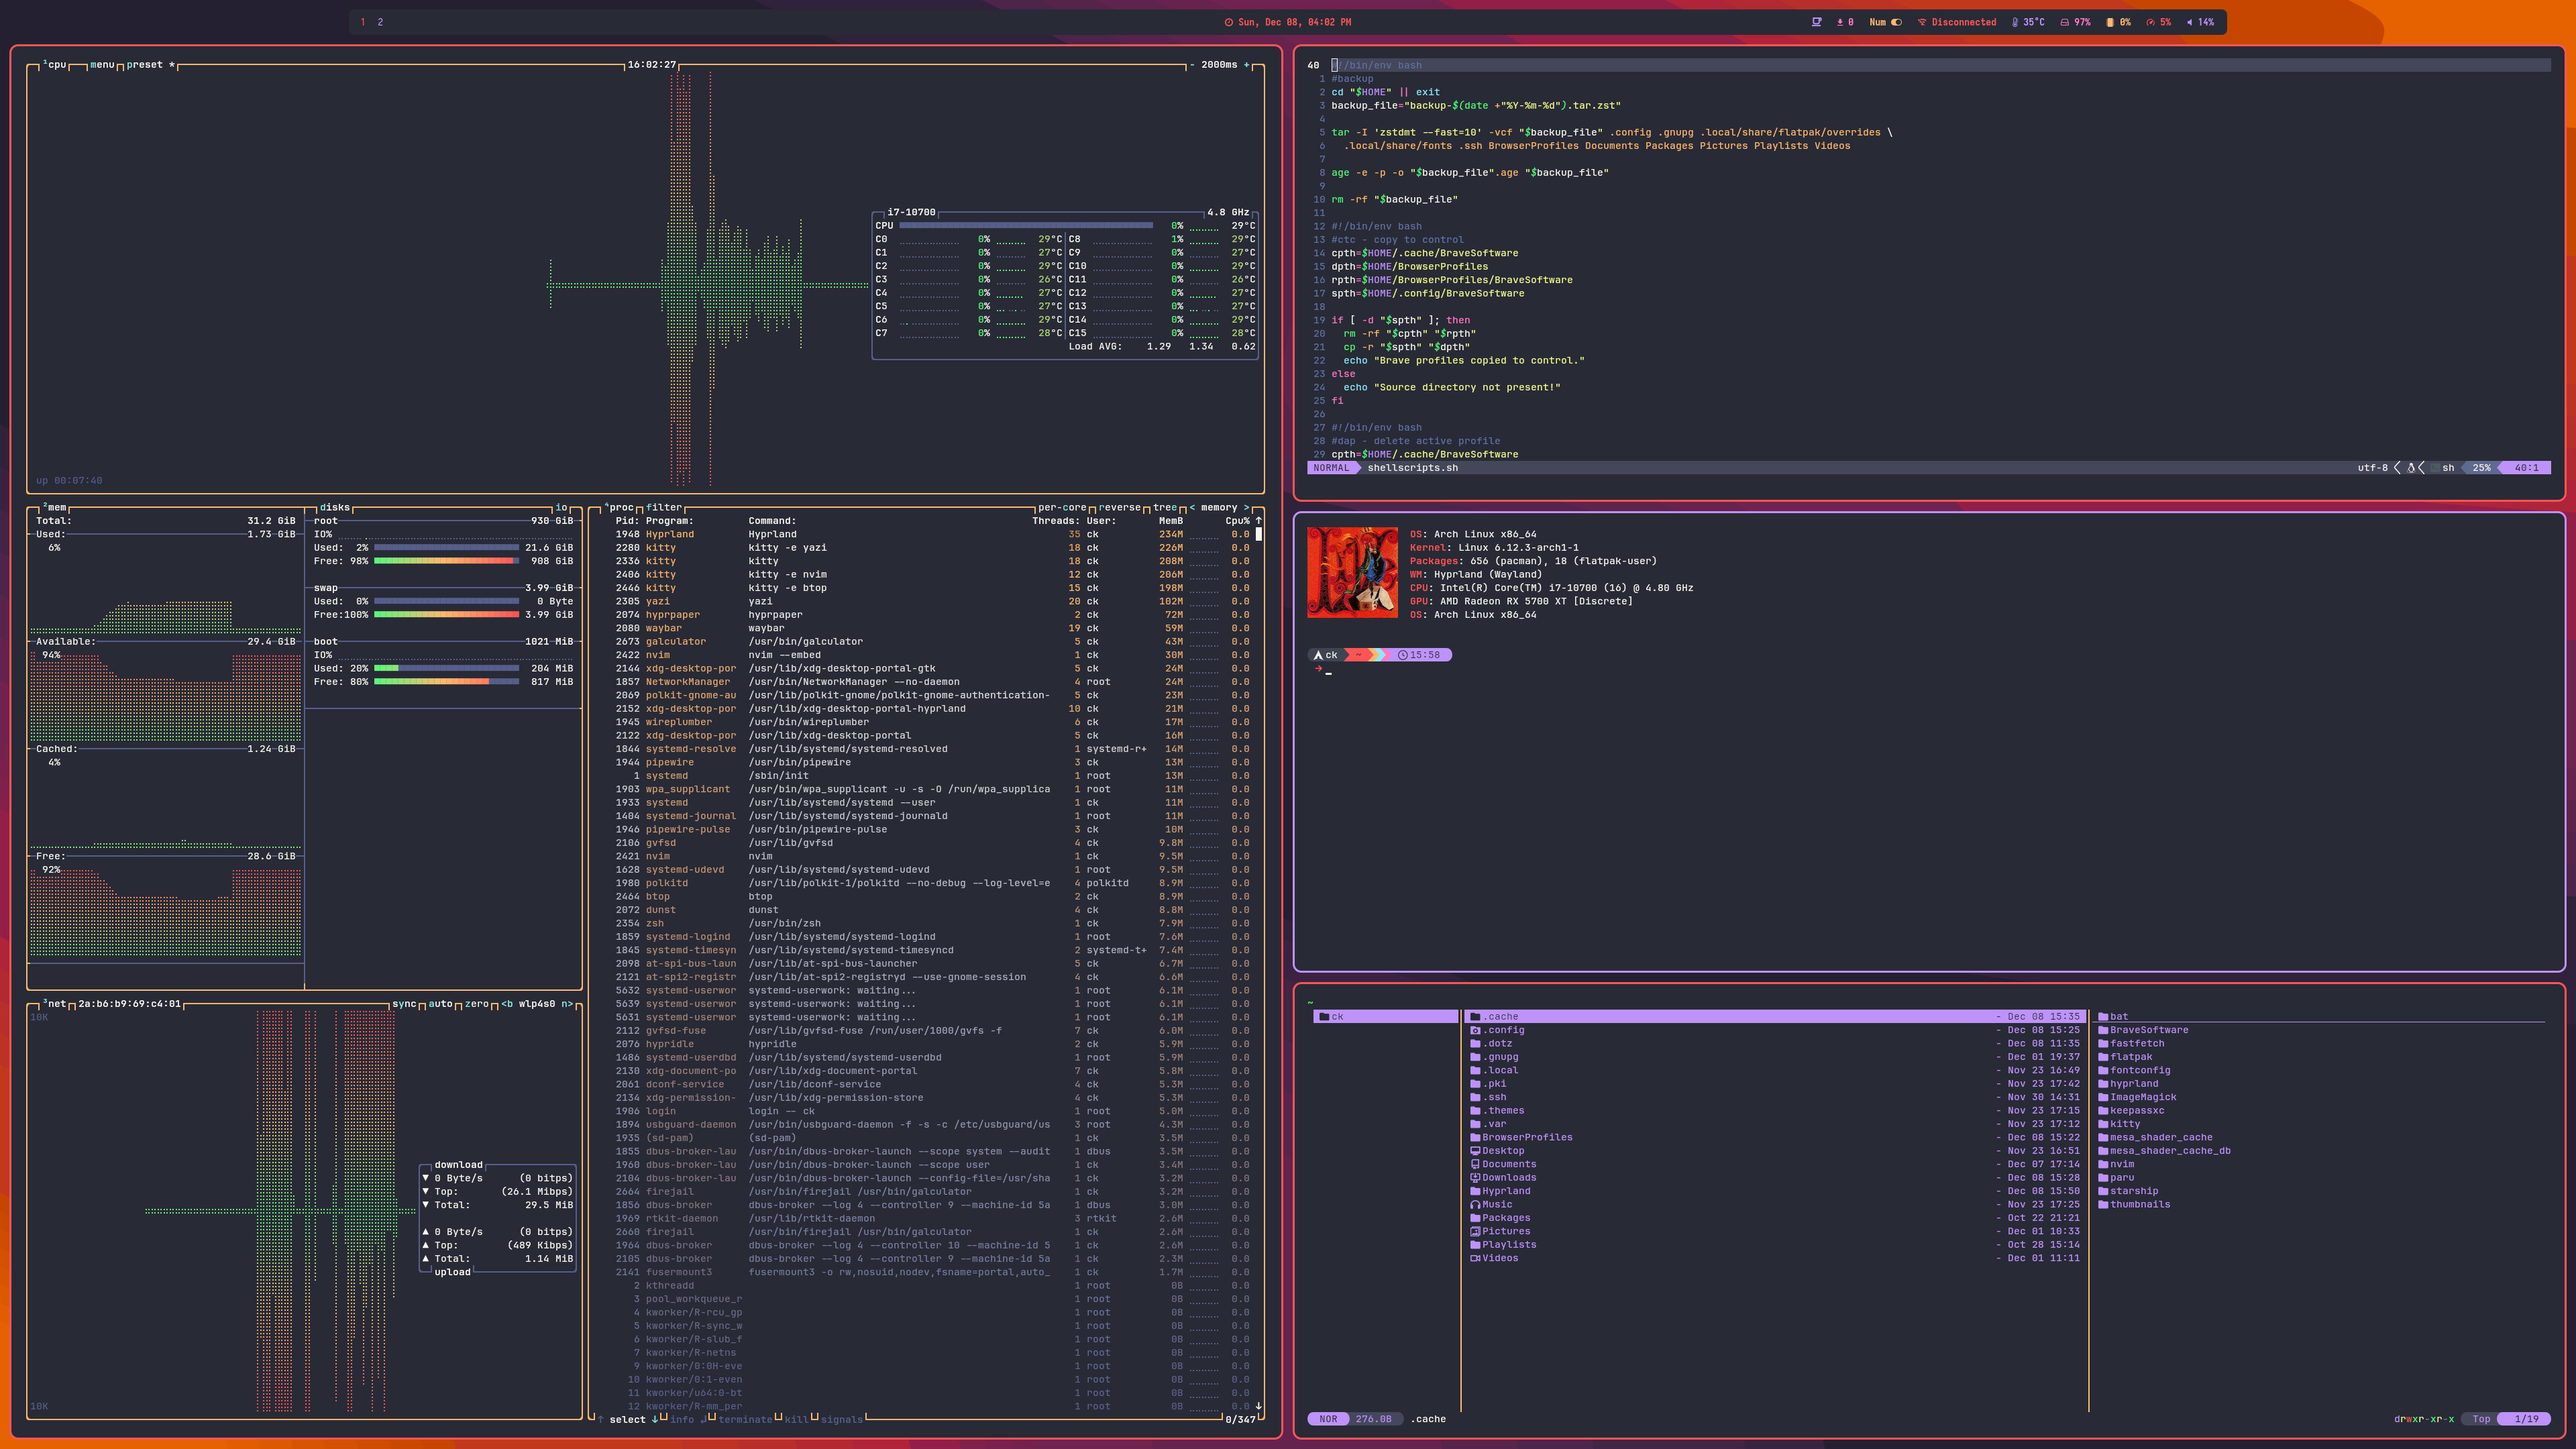
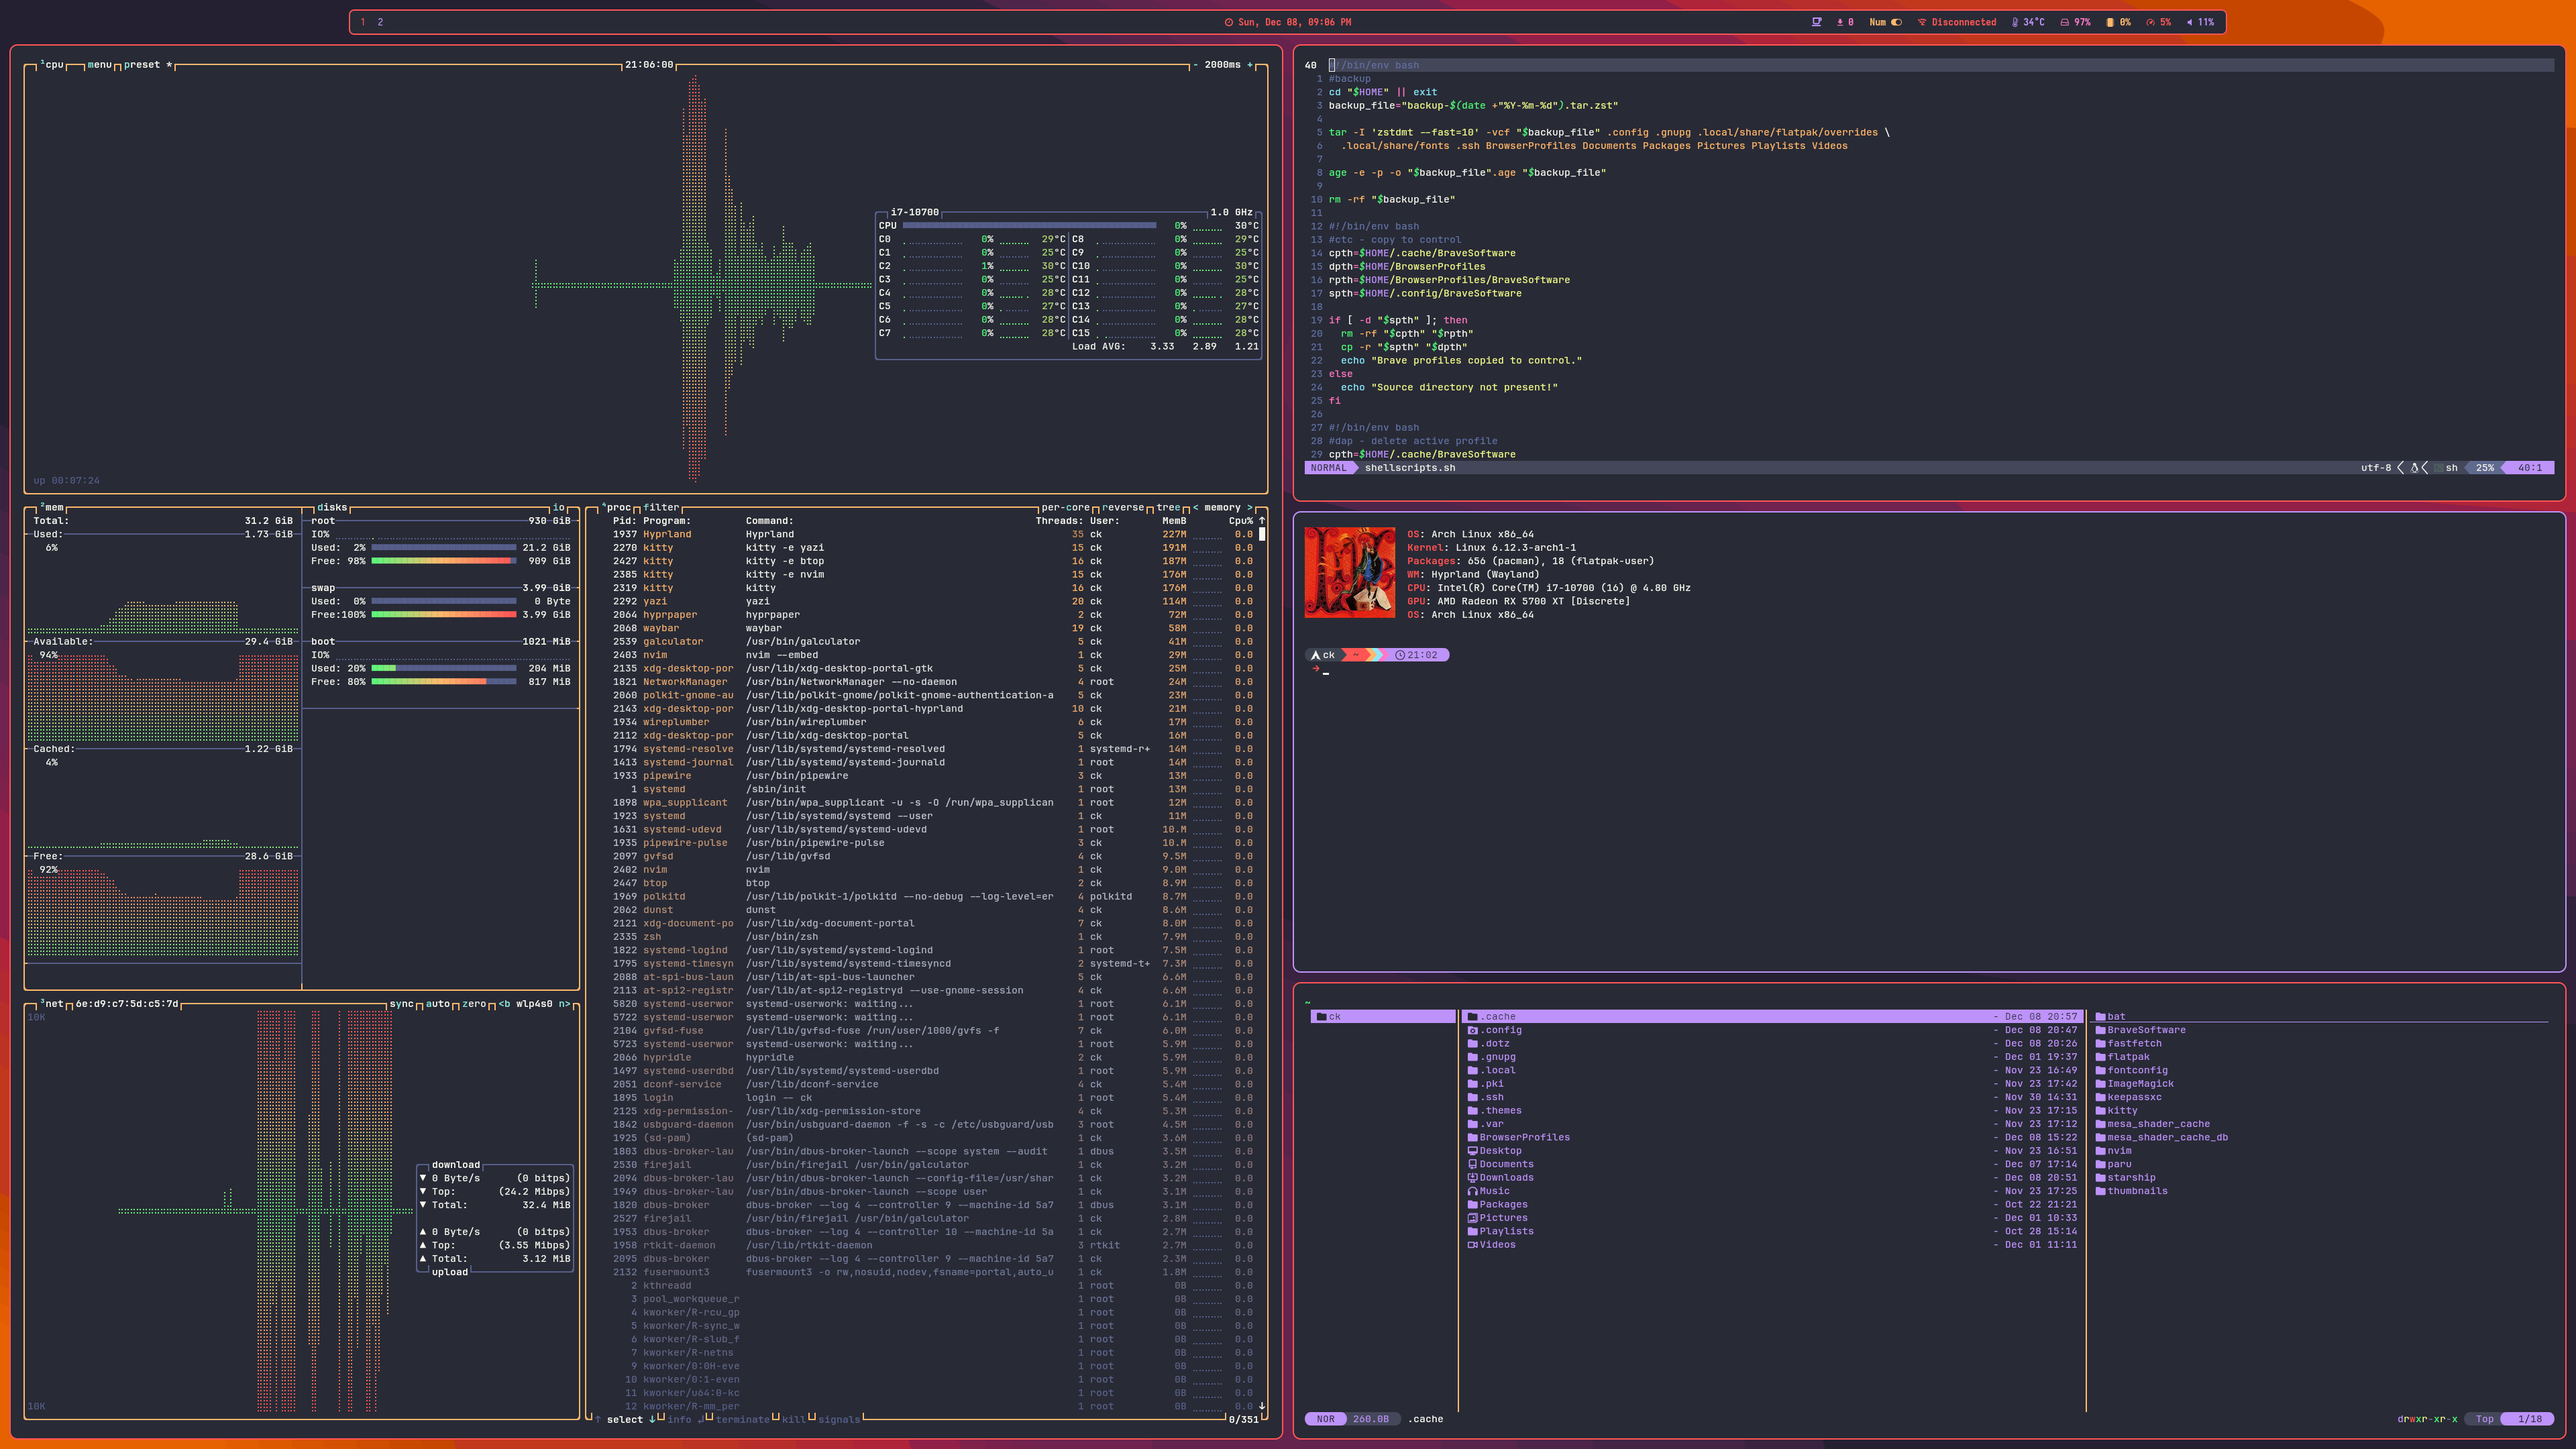
+waybar border

diff --git a/.config/waybar/style.css b/.config/waybar/style.css
@@ -1,5 +1,6 @@
 #waybar {
   background-color: #282a36;
+  border: 2px solid #ff5555;
   border-radius: 8px;
   color: #bd93f9;
   font-family: monospace;
